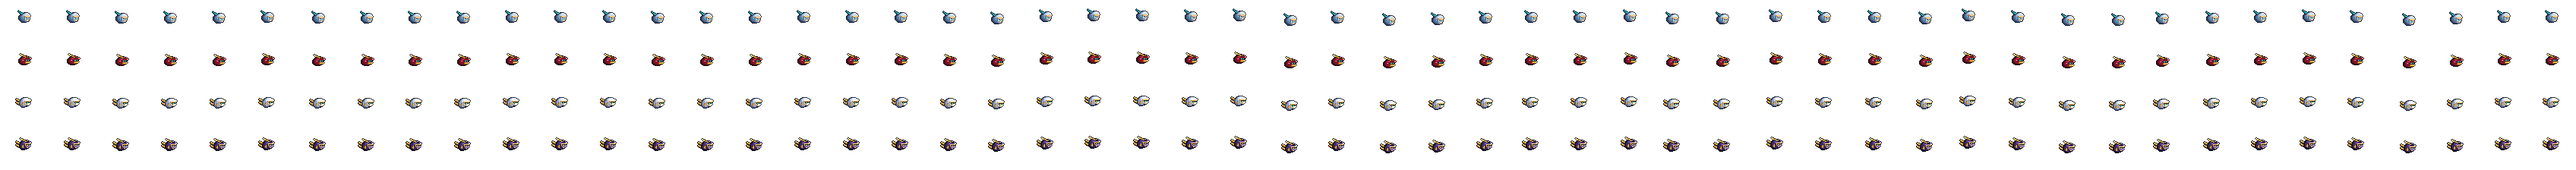
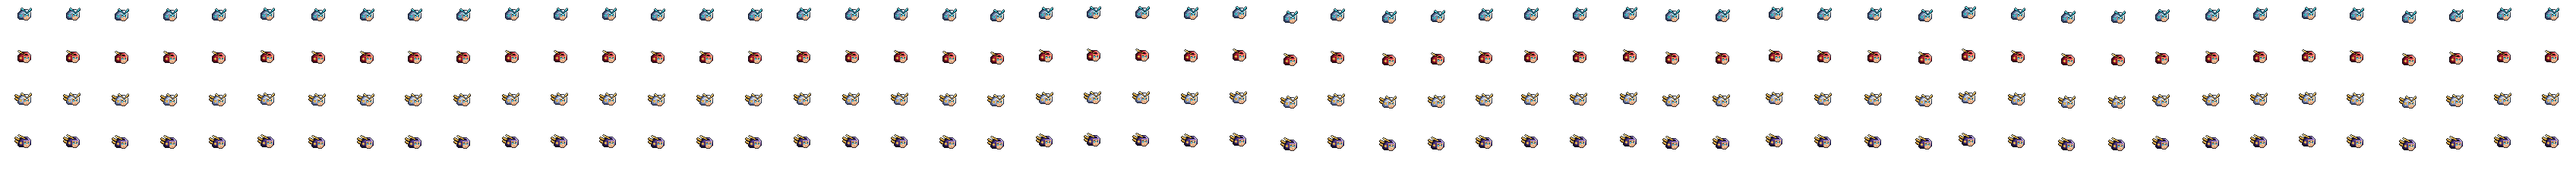
13단계: 캐릭터 디자인 2차(X6 시절 건담식 투구, V자 이마 테와 인상 쓴 얼굴)
- 둥근 돔 헬멧 안 작은 얼굴 창("헬멧을 뒤집어쓴" 모양)과 가로 일자 이마띠를
  머리에 딱 맞는 각진 투구와 크게 드러난 3/4 얼굴로 다시 그림(눈·코·입·턱, 귀 센서, 볼 가리개)
- 이마 테가 양 관자놀이에서 V자로 내려와 코 위 보석에서 만남, 그 아래 안쪽이 눌린 날카로운 눈
- IX: 청록 보석에서 솟는 건담식 V 안테나. 아머는 얼굴 유지(GDD 4-2), 투구 색·장식만 변경
  (뱅가드 진홍+금 뿔, 에어로 흰색+금 V 안테나·핀, 얼티밋 흑자색+핀·뿔), 닫힌 메카 얼굴 제거
- SABLE: 마스크 제거, 주황 V 테·보석·칼날 볏, 은발 앞머리와 허리까지 오는 포니테일(달리면 날림)
- ECHO: 둥근 헬멧·쌍 안테나 대신 보라 뾰족머리, 정수리의 두 렌즈 고글, V자 앞머리
- 머리를 올려 짧은 목이 보이게, HUD 얼굴 배지 맞춤. 안 쓰는 옛 헬멧 그리드 삭제,
  깨져 있던 tools/preview_kit.gd 복구, README

diff --git a/game/README.md b/game/README.md
@@ -75,13 +75,13 @@ ad-hoc 서명이라 빌드한 맥에서는 바로 열리지만, 다른 맥에서
 
 ## 그래픽 — 캐릭터 스프라이트 (X6식 32비트 스프라이트 방식)
 
-세 주인공과 이클립스는 `art/characters/<id>/`의 픽셀 아트 스프라이트 시트로 그립니다. 모두 오리지널 디자인이며, 록맨 X4~X6 시절 32비트 스프라이트의 **만드는 방식**(기본 몸 위에 아머 파츠를 겹치는 구조, 많은 동작 프레임, 색 외곽선, 스프라이트 이펙트)과 그 시절 액션 주인공의 **비율·색 나누기**(헬멧 아래 보이는 얼굴, 큰 건틀릿과 부츠, 어두운 슈트 관절과 두 색 장갑)를 따릅니다. 원작 캐릭터의 모양(헬멧 보석·귀 장식·배색 등)은 따라 하지 않습니다.
+세 주인공과 이클립스는 `art/characters/<id>/`의 픽셀 아트 스프라이트 시트로 그립니다. 모두 오리지널 디자인이며, 록맨 X4~X6 시절 32비트 스프라이트의 **만드는 방식**(기본 몸 위에 아머 파츠를 겹치는 구조, 많은 동작 프레임, 색 외곽선, 스프라이트 이펙트)과 그 시절 액션 주인공의 **비율·머리 구조·색 나누기**(머리에 딱 맞는 헬멧과 크게 드러난 3/4 얼굴, 이마 장식과 귀 장치, 큰 건틀릿과 부츠, 어두운 슈트 관절과 두 색 장갑)를 따릅니다. 색과 세부(IX의 흰·청록 배색과 청록 에너지 보석, SABLE의 은발과 주황 테, ECHO의 보라 머리와 고글)는 오리지널이며, 원작 캐릭터의 그림을 옮기지는 않습니다.
 
 | 캐릭터 | 디자인 |
 |---|---|
-| **IX** | 흰 프레임·청록 코어. 앞이 솟은 헬멧 아래로 얼굴과 두 눈이 보이고, 금색 이마띠가 앞으로 뾰족하게 나옴. 청록 칼라·벨트·부츠 발목 칼라, 손목으로 넓어지는 건틀릿과 무릎까지 오는 부츠. 아머마다 팔레트를 바꾸고 파츠를 덧붙임 — 뱅가드(건메탈·금: 앞뿔, 가슴 갈매기 무늬, 등 추진기, 큰 어깨, 블록 버스터, 뒤꿈치 추진기), 에어로(흰색·민트: 날개 핀, 칼라 줄무늬, 등 날개, 지느러미 어깨, 통풍구 버스터, 발목 핀), 얼티밋(보라·금) |
-| **SABLE** | 강철색 검사, 주황 볏, 뾰족한 챙 아래 청록 눈과 아래 얼굴을 가린 마스크, 주황 손목 띠, 등에 멘 세이버 |
-| **ECHO** | 작은 청록 사수, 이마에 올린 금색 고글과 큰 보라 눈, 쌍 안테나, 보라 코어·손목 띠, 쌍권총, 소형체 |
+| **IX** | 흰 프레임·청록 코어. 건담식 투구: 이마 테가 양쪽 관자놀이에서 V자로 내려와 코 위 청록 에너지 보석에서 만나고, 보석에서 청록 V 안테나가 솟음. 옆머리의 둥근 청록 귀 센서, V자 테 아래 인상 쓴 날카로운 눈. 청록 칼라·벨트·부츠 발목 칼라, 손목으로 넓어지는 건틀릿과 무릎까지 오는 부츠. 아머는 얼굴을 그대로 두고 헬멧 색·장식과 몸 파츠가 바뀜 — 뱅가드(진홍·금: 금색 큰 뿔, 앞팔의 거대한 은색 발톱, 이중 금테 어깨, 블록형 부츠), 에어로(흰색·금·파랑: 금색 V 안테나와 뒤로 뻗은 금 핀, 에너지 날개, 창 버스터, 뾰족한 부츠), 얼티밋(흑자색·금: 핀과 뿔을 함께) |
+| **SABLE** | 강철색 검사. V자로 내려오는 주황 테와 이마 보석, 보석에서 뒤로 솟은 주황 칼날 볏, 주황 귀 센서, 인상 쓴 청록 눈, 이마로 흘러내린 은발 앞머리와 허리까지 오는 은발 포니테일(달리면 뒤로 날림), 주황 손목 띠, 등에 멘 세이버 |
+| **ECHO** | 작은 청록 사수. 뒤로 뻗친 보라 뾰족머리와 정수리에 올린 렌즈 두 개짜리 금색 고글, 이마로 V자로 내려온 앞머리, 청록 귀 헤드셋, 인상 쓴 보라 눈, 보라 코어·손목 띠, 쌍권총, 소형체 |
 | **ECLIPSE** | IX의 어두운 쌍둥이(흑연색·자홍 볏), 리미터 해제·잔상용 줄 |
 
 - **손으로 찍은 파츠** (`tools/sprites/ix_kit.gd` 등): 헬멧·가슴·부츠(평발/발끝)·어깨·버스터는 팔레트 번호로 한 칸씩 찍은 그림이고, 뼈대는 위치만 잡고 관절 팔다리를 그 사이에 그립니다. 가슴은 기울기만큼 줄을 밀어(시어) 숙이고, 아머 종류는 팔레트 교체 + 덧붙임 조각입니다.
@@ -383,6 +383,19 @@ godot --path game -- --moves=/tmp/rp_moves
 - [x] **ECHO**: 연사탄에 꼬리 빛(트레이서), 권총 끝에 초록 총구 불꽃, 복제탄 뒤로 보라·초록 데이터 조각, 복제 데이터를 쥐면 머리 위에 떠다니는 보라 데이터 마름모, 터렛 형태는 권총 주위를 도는 조준 표시, 변신하거나 풀릴 때 데이터 마름모가 퍼집니다.
 - [x] **밝은 깜박임 줄이기**: 켜면 섬광류 칼끝 반짝임이 꺼지고 카운터 섬광은 흰색 대신 옅은 금색으로 줄어듭니다.
 - [x] 테스트: 모든 베기·검술·방향·순간의 초승달이 그릴 수 있는 다각형인지, 파쇄류가 섬광류보다 두꺼운지, 적중 불꽃이 검술 색인지 확인합니다.
+
+## 로드맵 13단계 (캐릭터 디자인 2차: X6 시절 건담식 투구)
+
+둥근 돔 헬멧 안에 작은 얼굴 창이 난 모양이라 "헬멧을 뒤집어쓴" 것처럼 보이고, 이마 테가 가로 일자라 머리띠 같던 머리를, 록맨 X6 시절 32비트 스프라이트처럼 각진 건담식 투구와 인상 쓴 얼굴로 다시 그렸습니다. 색과 세부는 오리지널입니다.
+
+- [x] **3/4 얼굴**: 머리에 딱 맞는 투구 아래로 얼굴이 크게 드러나고(눈·코·입·턱), 옆머리에 둥근 귀 센서, 볼 가리개. 등 뒤로 튀어나오던 안테나 핀은 뺐습니다.
+- [x] **V자 이마 테**: 테가 가로 일자 대신 양쪽 관자놀이에서 V자로 내려와 코 위 보석에서 만납니다. 그 아래 눈은 안쪽 끝이 눌린 날카로운 눈이라, 동그랗고 똘망똘망한 눈 대신 인상 쓴 얼굴이 됩니다.
+- [x] **IX**: 청록 보석에서 솟는 건담식 V 안테나(가까운 날이 더 길게). 아머는 얼굴을 그대로 두고(GDD 4-2) 투구 색과 장식만 바뀝니다 — 뱅가드는 진홍 투구와 금색 큰 뿔, 에어로는 흰 투구에 금색 V 안테나와 금 핀, 얼티밋은 흑자색 투구에 핀과 뿔. 10단계의 닫힌 메카 얼굴은 없앴습니다.
+- [x] **SABLE**: 마스크를 벗기고, V자 주황 테와 보석, 보석에서 뒤로 솟은 주황 칼날 볏, 은발 앞머리, 허리까지 오는 들쭉날쭉한 은발 포니테일(달리거나 대시하면 뒤로 날림).
+- [x] **ECHO**: 둥근 헬멧과 토끼 귀 같던 쌍 안테나 대신 뒤로 뻗친 보라 뾰족머리, 정수리에 올린 렌즈 두 개짜리 금색 고글, 이마로 V자로 내려온 앞머리 아래 인상 쓴 보라 눈, 청록 귀 헤드셋.
+- [x] **목**: 머리를 몇 픽셀 올려 짧은 어두운 목이 보이게 했습니다(턱이 어깨에 가리지 않음). HUD 얼굴 배지도 새 머리에 맞췄습니다.
+- [x] 이클립스는 악역이라 가면 투구를 그대로 둡니다.
+- [x] 정리: 안 쓰는 옛 헬멧 그리드를 지우고, 지운 그리드를 참조해 깨져 있던 `tools/preview_kit.gd`를 고쳤습니다.
 
 아직 없는 것: 실제 플레이로 맞춘 난이도·손맛 조정, 손으로 다듬은 픽셀 아트(손 보정 레이어로 받을 준비는 됨), 서명·공증된 배포용 앱.
 
